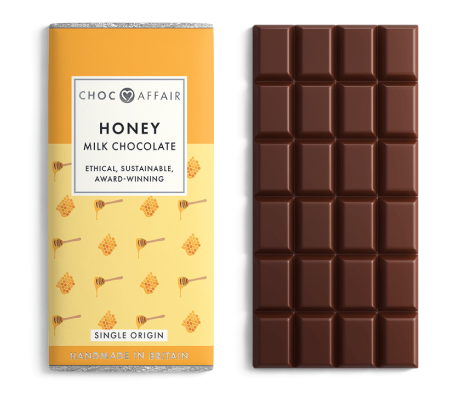
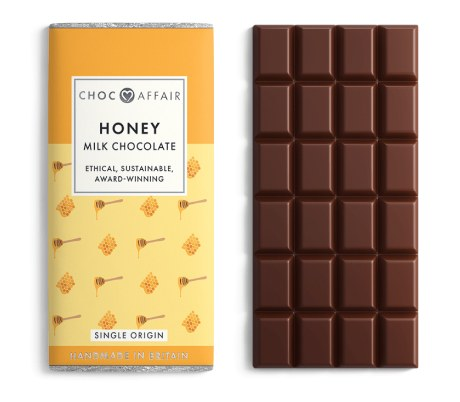
Update img
заміна фото на оброблені на початок оформлення карток

diff --git a/src/partials/our-products.html b/src/partials/our-products.html
@@ -1,0 +1,79 @@
+<section class="section">
+  <div class="container">
+    <h2>Our Products</h2>
+    <ul class="our-product-list">
+      <li class="our-product-item">
+        <img
+          class=""
+          srcset="
+            ../img/our-products/product-image1@1x.jpg 1x,
+            ../img/our-products/product-image1@2x.jpg 2x
+          "
+          src="../img/our-products/product-image1@1x.jpg"
+          alt="Orange chocolate"
+          width="230"
+          height="201"
+        />
+        <div class="">
+          <h3 class="">orange</h3>
+          <p class="">Dark chocolate</p>
+          <button type="button">45 UAH</button>
+        </div>
+      </li>
+      <!-- <li class="">
+        <img
+          class=""
+          srcset="
+            ../img/our-products/product-image2@1x.jpg 1x,
+            ../img/our-products/product-image2@2x.jpg 2x
+          "
+          src="../img/our-products/product-image2@1x.jpg"
+          alt="Orange chocolate"
+          width="230"
+          height="201"
+        />
+        <div class="">
+          <h3 class="">APPLE&CRANBERRY</h3>
+          <p class="">Milk chocolate</p>
+          <button type="button">50 UAH</button>
+        </div>
+      </li>
+      <li class="">
+        <img
+          class=""
+          srcset="
+            ../img/our-products/product-image3@1x.jpg 1x,
+            ../img/our-products/product-image3@2x.jpg 2x
+          "
+          src="../img/our-products/product-image3@1x.jpg"
+          alt="Orange chocolate"
+          width="230"
+          height="201"
+        />
+        <div class="">
+          <h3 class="">lime&sea salt</h3>
+          <p class="">Dark chocolate</p>
+          <button type="button">66 UAH</button>
+        </div>
+      </li>
+      <li class="">
+        <img
+          class=""
+          srcset="
+            ../img/our-products/product-image4@1x.jpg 1x,
+            ../img/our-products/product-image4@2x.jpg 2x
+          "
+          src="../img/our-products/product-image4@1x.jpg"
+          alt="Orange chocolate"
+          width="230"
+          height="201"
+        />
+        <div class="">
+          <h3 class="">pineapple</h3>
+          <p class="">Dark chocolate</p>
+          <button type="button">54 UAH</button>
+        </div>
+      </li> -->
+    </ul>
+  </div>
+</section>

diff --git a/src/css/our-products.css b/src/css/our-products.css
@@ -1,0 +1,16 @@
+.our-product-list {
+  display: flex;
+  gap: 18px;
+}
+.our-product-item {
+  width: 100%;
+  box-sizing: border-box;
+  background: white;
+  border: 1px solid rgba(17, 17, 17, 0.1);
+  border-radius: 15px;
+}
+@media only screen and (min-width: 768px) {
+  .our-product-item {
+    width: 270px;
+  }
+}
